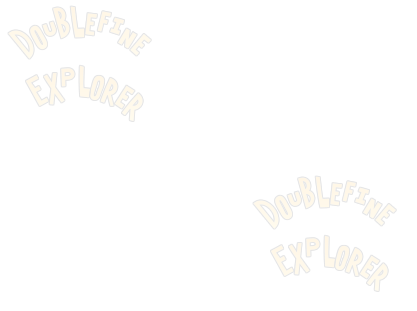
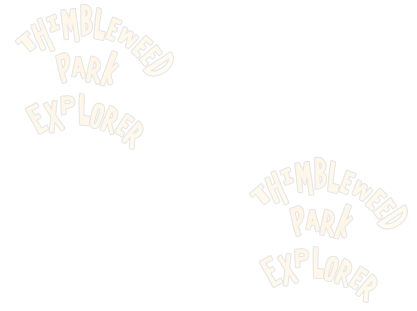
Fixed listview background

diff --git a/ThimbleweedParkExplorer/formMain.Designer.cs b/ThimbleweedParkExplorer/formMain.Designer.cs
@@ -42,6 +42,8 @@
             this.saveFileDialog1 = new System.Windows.Forms.SaveFileDialog();
             this.progressBar1 = new System.Windows.Forms.ProgressBar();
             this.backgroundWorker1 = new System.ComponentModel.BackgroundWorker();
+            this.panelProgress = new System.Windows.Forms.Panel();
+            this.pictureBoxProgress = new System.Windows.Forms.PictureBox();
             this.pictureBox1 = new System.Windows.Forms.PictureBox();
             this.pictureBoxPreview = new System.Windows.Forms.PictureBox();
             this.button1 = new System.Windows.Forms.Button();
@@ -62,6 +64,8 @@
             this.panelImage.SuspendLayout();
             this.panelText.SuspendLayout();
             this.panelAudio.SuspendLayout();
+            this.panelProgress.SuspendLayout();
+            ((System.ComponentModel.ISupportInitialize)(this.pictureBoxProgress)).BeginInit();
             ((System.ComponentModel.ISupportInitialize)(this.pictureBox1)).BeginInit();
             ((System.ComponentModel.ISupportInitialize)(this.pictureBoxPreview)).BeginInit();
             this.SuspendLayout();
@@ -81,6 +85,7 @@
             this.richTextBoxLog.Margin = new System.Windows.Forms.Padding(4);
             this.richTextBoxLog.Name = "richTextBoxLog";
             this.richTextBoxLog.ReadOnly = true;
+            this.richTextBoxLog.ScrollBars = System.Windows.Forms.RichTextBoxScrollBars.Vertical;
             this.richTextBoxLog.ShowSelectionMargin = true;
             this.richTextBoxLog.Size = new System.Drawing.Size(894, 68);
             this.richTextBoxLog.TabIndex = 4;
@@ -155,6 +160,7 @@
             // splitContainer1.Panel2
             // 
             this.splitContainer1.Panel2.Controls.Add(this.panelBlank);
+            this.splitContainer1.Panel2.Controls.Add(this.panelProgress);
             this.splitContainer1.Panel2.Controls.Add(this.panelImage);
             this.splitContainer1.Panel2.Controls.Add(this.panelText);
             this.splitContainer1.Panel2.Controls.Add(this.panelAudio);
@@ -295,6 +301,28 @@
             // backgroundWorker1
             // 
             this.backgroundWorker1.WorkerReportsProgress = true;
+            // 
+            // panelProgress
+            // 
+            this.panelProgress.Controls.Add(this.pictureBoxProgress);
+            this.panelProgress.Dock = System.Windows.Forms.DockStyle.Fill;
+            this.panelProgress.Location = new System.Drawing.Point(0, 0);
+            this.panelProgress.Margin = new System.Windows.Forms.Padding(4);
+            this.panelProgress.Name = "panelProgress";
+            this.panelProgress.Size = new System.Drawing.Size(282, 376);
+            this.panelProgress.TabIndex = 4;
+            // 
+            // pictureBoxProgress
+            // 
+            this.pictureBoxProgress.Dock = System.Windows.Forms.DockStyle.Fill;
+            this.pictureBoxProgress.Image = ((System.Drawing.Image)(resources.GetObject("pictureBoxProgress.Image")));
+            this.pictureBoxProgress.Location = new System.Drawing.Point(0, 0);
+            this.pictureBoxProgress.Margin = new System.Windows.Forms.Padding(4);
+            this.pictureBoxProgress.Name = "pictureBoxProgress";
+            this.pictureBoxProgress.Size = new System.Drawing.Size(282, 376);
+            this.pictureBoxProgress.SizeMode = System.Windows.Forms.PictureBoxSizeMode.CenterImage;
+            this.pictureBoxProgress.TabIndex = 0;
+            this.pictureBoxProgress.TabStop = false;
             // 
             // pictureBox1
             // 
@@ -464,6 +492,8 @@
             this.panelText.PerformLayout();
             this.panelAudio.ResumeLayout(false);
             this.panelAudio.PerformLayout();
+            this.panelProgress.ResumeLayout(false);
+            ((System.ComponentModel.ISupportInitialize)(this.pictureBoxProgress)).EndInit();
             ((System.ComponentModel.ISupportInitialize)(this.pictureBox1)).EndInit();
             ((System.ComponentModel.ISupportInitialize)(this.pictureBoxPreview)).EndInit();
             this.ResumeLayout(false);
@@ -504,6 +534,8 @@
         private System.ComponentModel.BackgroundWorker backgroundWorker1;
         private System.Windows.Forms.Panel panelImage;
         private System.Windows.Forms.PictureBox pictureBoxPreview;
+        private System.Windows.Forms.Panel panelProgress;
+        private System.Windows.Forms.PictureBox pictureBoxProgress;
     }
 }
 

diff --git a/ThimbleweedParkExplorer/formMain.cs b/ThimbleweedParkExplorer/formMain.cs
@@ -10,9 +10,8 @@ using ThimbleweedLibrary;
 
 //TODO
 //Try/except handling on opening bundle and dumping files particularlly all files - ggpack2 will raise exception
-//Integrated text/image/sound
+//Integrated sound
 //Saving of text/image/sound in different formats
-//Default image for the right bar like in DF Explorer
 //Send to hex editor button as usual
 //Decoding of wimpy files - tree files?
 //Please wait working while dumping and lock controls
@@ -51,9 +50,12 @@ namespace ThimbleweedParkExplorer
             //Add info to log box
             richTextBoxLog.Text = Constants.ProgName + " " + Constants.Version + Environment.NewLine + Constants.URL;
             
+            //Set listview background
             objectListView1.SetNativeBackgroundTiledImage(Properties.Resources.listViewBackground);
 
             EnableDisableControlsContextDependant();
+
+            panelBlank.BringToFront();
         }
 
         private void InitializeListView()
@@ -92,6 +94,7 @@ namespace ThimbleweedParkExplorer
                 objectListView1.Items.Clear();
                 objectListView1.SetObjects(Thimble.BundleFiles);
                 objectListView1.AutoResizeColumns();
+                panelBlank.BringToFront();
                 AddFiletypeContextEntries();
             }
             finally
@@ -157,8 +160,16 @@ namespace ThimbleweedParkExplorer
 
             int index = Thimble.BundleFiles.IndexOf((BundleEntry)objectListView1.SelectedObject);
 
-            log("Saving file " + saveFileDialog1.FileName);
-            Thimble.SaveFile(index, saveFileDialog1.FileName);
+            try
+            {
+                log("Saving file " + saveFileDialog1.FileName);
+                EnableDisableControls(false);
+                Thimble.SaveFile(index, saveFileDialog1.FileName);
+            }
+            finally
+            {
+                EnableDisableControls(true);
+            }
         }
 
         private void cueTextBox1_TextChanged(object sender, EventArgs e)
@@ -294,6 +305,8 @@ namespace ThimbleweedParkExplorer
                 {
                     log("Saving all files...");
                     EnableDisableControls(false);
+                    panelProgress.Visible = true;
+                    panelProgress.BringToFront();
 
                     progressBar1.Visible = true;
                     progressBar1.Maximum = Thimble.BundleFiles.Count;
@@ -312,6 +325,7 @@ namespace ThimbleweedParkExplorer
                 {
                     EnableDisableControls(true);
                     progressBar1.Visible = false;
+                    panelProgress.Visible = false;
                 }
             }
 
@@ -342,7 +356,7 @@ namespace ThimbleweedParkExplorer
 
             if (objectListView1.SelectedIndex != -1)
             {
-                //Different menu items make visible
+                //Different save context menu items make visible eg save as image etc
             }
         }
 
